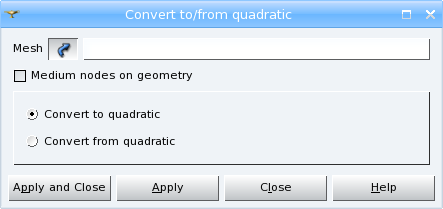
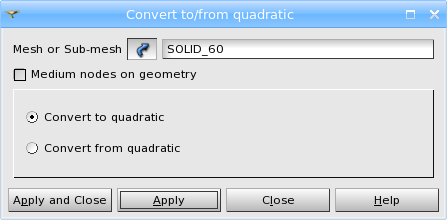
0020978: EDF 1475 SMESH: Convert linear to quadratic on a submesh

diff --git a/src/SMESHGUI/SMESH_msg_en.ts b/src/SMESHGUI/SMESH_msg_en.ts
@@ -3903,7 +3903,7 @@ Do you want to restore original submesh priority?</translation>
     </message>
     <message>
         <source>MESH</source>
-        <translation>Mesh</translation>
+        <translation>Mesh or Sub-mesh</translation>
     </message>
     <message>
         <source>RADIOBTN_1</source>
@@ -3912,6 +3912,10 @@ Do you want to restore original submesh priority?</translation>
     <message>
         <source>RADIOBTN_2</source>
         <translation>Convert from quadratic</translation>
+    </message>
+    <message>
+        <source>NON_CONFORM_WARNING</source>
+        <translation>Warning: mesh can become non-conformal</translation>
     </message>
 </context>
 <context>

diff --git a/src/SMESHGUI/SMESHGUI_ConvToQuadDlg.h b/src/SMESHGUI/SMESHGUI_ConvToQuadDlg.h
@@ -36,6 +36,7 @@ class QCheckBox;
 class QRadioButton;
 class QButtonGroup;
 class QGroupBox;
+class QLabel;
 
 class SMESHGUI_EXPORT SMESHGUI_ConvToQuadDlg : public SMESHGUI_Dialog
 { 
@@ -53,6 +54,8 @@ public:
   void          SetEnabledControls( const bool );
   void          SetEnabledRB( const int, const bool );
   int           CurrentRB(); //returns the ID of the selected toggle button
+  void          ShowWarning(bool);
+  bool          isWarningShown();
 
 signals:
   void          onClicked( int );
@@ -63,6 +66,7 @@ private:
   QButtonGroup* myBG;
   QRadioButton* myRB1;
   QRadioButton* myRB2;
+  QLabel* myWarning;
 };
 
 #endif // SMESHGUI_CONVTOQUADDLG_H

diff --git a/src/SMESHGUI/SMESHGUI_ConvToQuadOp.h b/src/SMESHGUI/SMESHGUI_ConvToQuadOp.h
@@ -55,7 +55,7 @@ protected:
   virtual void                   startOperation();
   virtual void                   selectionDone();
   virtual SUIT_SelectionFilter*  createFilter( const int ) const;
-  MeshType                       ConsistMesh( const SMESH::SMESH_Mesh_var& ) const;
+  MeshType                       ConsistMesh( const SMESH::SMESH_IDSource_var& ) const;
 
 protected slots:
   virtual bool                   onApply();
